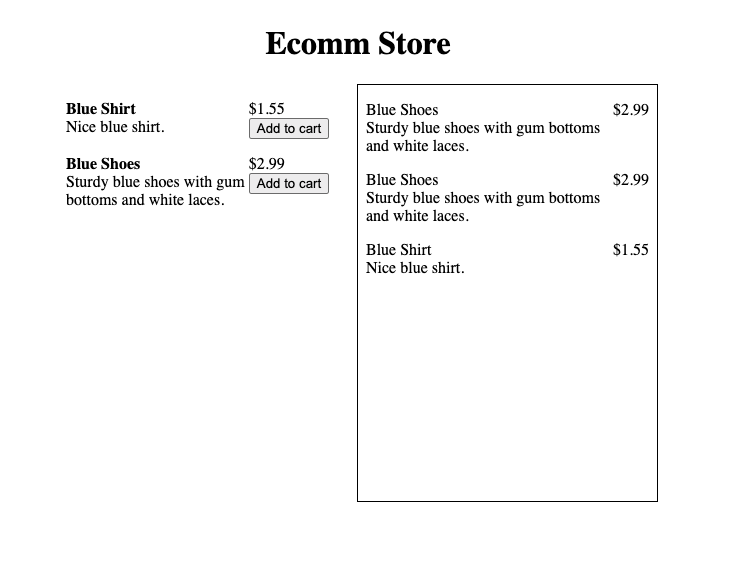
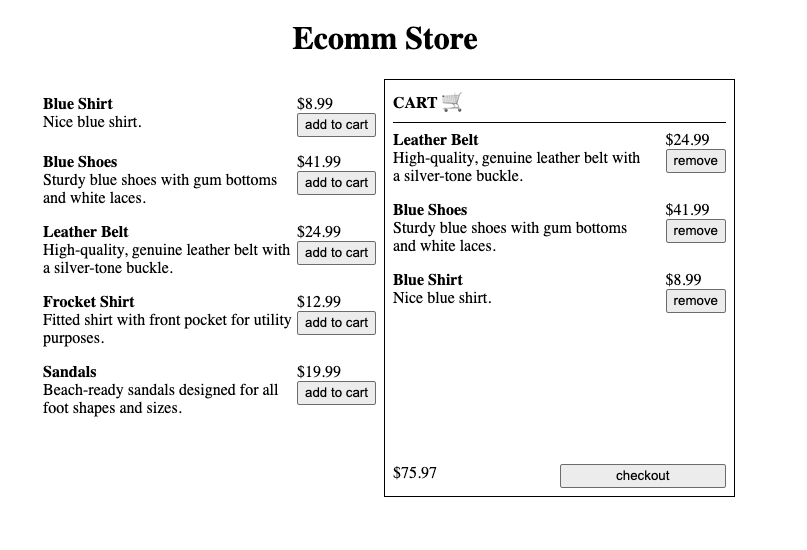
cart enhancements

diff --git a/checkout/src/components/Cart/Cart.tsx b/checkout/src/components/Cart/Cart.tsx
@@ -40,6 +40,12 @@ export const Cart = () => {
     window.dispatchEvent(event);
   };
 
+  const calculateTotal = (items: Item[]) => {
+    let sum = 0.0;
+    items.forEach((item) => (sum += item.price));
+    return parseFloat(sum.toString()).toFixed(2);
+  };
+
   useEffect(() => {
     window.addEventListener("addItemToCart", addItemToCartHandler);
     window.addEventListener("removeItemFromCart", removeItemFromCartHandler);
@@ -54,6 +60,9 @@ export const Cart = () => {
 
   return (
     <CartWrapper>
+      <div className="cart-header">
+        <span className="cart-header-title">cart 🛒</span>
+      </div>
       <ul className="item-list">
         {items?.length > 0 &&
           items.map((item, index) => (
@@ -72,6 +81,13 @@ export const Cart = () => {
             </li>
           ))}
       </ul>
+      <div className="cart-footer">
+        <span className="price-total">{"$" + calculateTotal(items)}</span>
+        <Button
+          handleClick={() => console.log("checking out")}
+          text="checkout"
+        ></Button>
+      </div>
     </CartWrapper>
   );
 };
@@ -82,10 +98,22 @@ const CartWrapper = styled.div`
   padding: 8px;
   height: 100%;
   width: 100%;
+  display: flex;
+  flex-direction: column;
+  .cart-header {
+    border-bottom: solid 1px;
+    padding-bottom: 8px;
+    > .cart-header-title {
+      text-transform: uppercase;
+      font-weight: bold;
+    }
+  }
   .item-list {
     list-style: none;
     padding: 0;
     margin: 0;
+    height: 100%;
+    overflow-y: scroll;
   }
   .item-card {
     display: flex;
@@ -99,6 +127,18 @@ const CartWrapper = styled.div`
     flex-direction: column;
     > .item-name {
       font-weight: bold;
+    }
+  }
+  .item-price {
+    display: flex;
+    flex-direction: column;
+    justify-items: end;
+  }
+  .cart-footer {
+    display: flex;
+    justify-content: space-between;
+    > .price-total {
+      min-width: 50%;
     }
   }
 `;

diff --git a/host-app/src/Items.ts b/host-app/src/Items.ts
@@ -1,0 +1,35 @@
+import { Item } from "@mf-types/checkout/_types/Cart";
+
+export const items: Item[] = [
+  {
+    id: 1,
+    name: "Blue Shirt",
+    description: "Nice blue shirt.",
+    price: 8.99,
+  },
+  {
+    id: 2,
+    name: "Blue Shoes",
+    description: "Sturdy blue shoes with gum bottoms and white laces.",
+    price: 41.99,
+  },
+  {
+    id: 3,
+    name: "Leather Belt",
+    description:
+      "High-quality, genuine leather belt with a silver-tone buckle.",
+    price: 24.99,
+  },
+  {
+    id: 4,
+    name: "Frocket Shirt",
+    description: "Fitted shirt with front pocket for utility purposes.",
+    price: 12.99,
+  },
+  {
+    id: 5,
+    name: "Sandals",
+    description: "Beach-ready sandals designed for all foot shapes and sizes.",
+    price: 19.99,
+  },
+];

diff --git a/host-app/src/ItemList.tsx b/host-app/src/ItemList.tsx
@@ -1,22 +1,7 @@
 import React from "react";
 import styled from "styled-components";
-import { Item } from "@mf-types/checkout/_types/Cart";
 import AddToCartButton from "./AddToCartButton";
-
-const items: Item[] = [
-  {
-    id: 1,
-    name: "Blue Shirt",
-    description: "Nice blue shirt.",
-    price: 1.55,
-  },
-  {
-    id: 2,
-    name: "Blue Shoes",
-    description: "Sturdy blue shoes with gum bottoms and white laces.",
-    price: 2.99,
-  },
-];
+import { items } from "./Items";
 
 export const ItemList = () => {
   return (
@@ -62,5 +47,10 @@ const ItemListWrapper = styled.div`
     > .item-name {
       font-weight: bold;
     }
+  }
+  .item-price {
+    display: flex;
+    flex-direction: column;
+    justify-items: end;
   }
 `;

diff --git a/host-app/src/AddToCartButton.tsx b/host-app/src/AddToCartButton.tsx
@@ -1,5 +1,6 @@
 import { Item } from "@mf-types/checkout/_types/Cart";
 import React from "react";
+import styled from "styled-components";
 
 const handleClick = (item: Item) => {
   const event = new CustomEvent("addItemToCart", {
@@ -9,7 +10,16 @@ const handleClick = (item: Item) => {
 };
 
 const AddToCartButton = ({ item }: { item: Item }) => {
-  return <button onClick={() => handleClick(item)}>Add to cart</button>;
+  return (
+    <AddToCartButtonWrapper onClick={() => handleClick(item)}>
+      add to cart
+    </AddToCartButtonWrapper>
+  );
 };
+
+const AddToCartButtonWrapper = styled.button`
+  width: 100%;
+  height: 24px;
+`;
 
 export default AddToCartButton;

diff --git a/checkout/src/components/Button.tsx b/checkout/src/components/Button.tsx
@@ -1,4 +1,5 @@
 import React from "react";
+import styled from "styled-components";
 
 type ButtonProps = {
   handleClick: () => void;
@@ -6,5 +7,12 @@ type ButtonProps = {
 };
 
 export const Button = ({ handleClick, text }: ButtonProps) => {
-  return <button onClick={handleClick}>{text || "click me"}</button>;
+  return (
+    <ButtonWrapper onClick={handleClick}>{text || "click me"}</ButtonWrapper>
+  );
 };
+
+const ButtonWrapper = styled.button`
+  width: 100%;
+  height: 24px;
+`;

diff --git a/host-app/src/App.tsx b/host-app/src/App.tsx
@@ -8,7 +8,7 @@ const App = () => {
   return (
     <AppWrapper>
       <h1>Ecomm Store</h1>
-      <div style={{ width: "600px", height: "400px", display: "flex" }}>
+      <div style={{ width: "700px", height: "400px", display: "flex" }}>
         <ItemList />
         <React.Suspense fallback="loading cart">
           <RemoteCart></RemoteCart>

diff --git a/README.md b/README.md
@@ -1,4 +1,8 @@
 ![host app screenshot](/host-app/public/host-app.png)
 
+The main store app (host) dispatches DOM events. Cart is a separate application (remote) that has an event interface that can listen for events from host or other remotes.
+
+> Goal: demonstrate an object-schema validation mechanism for remote module events. Remotes accept no props and instead rely entirely on DOM events to ensure decoupling.
+
 - [x] Typescript support for remote modules
 - [ ] Seamless zod integration with remote module events
